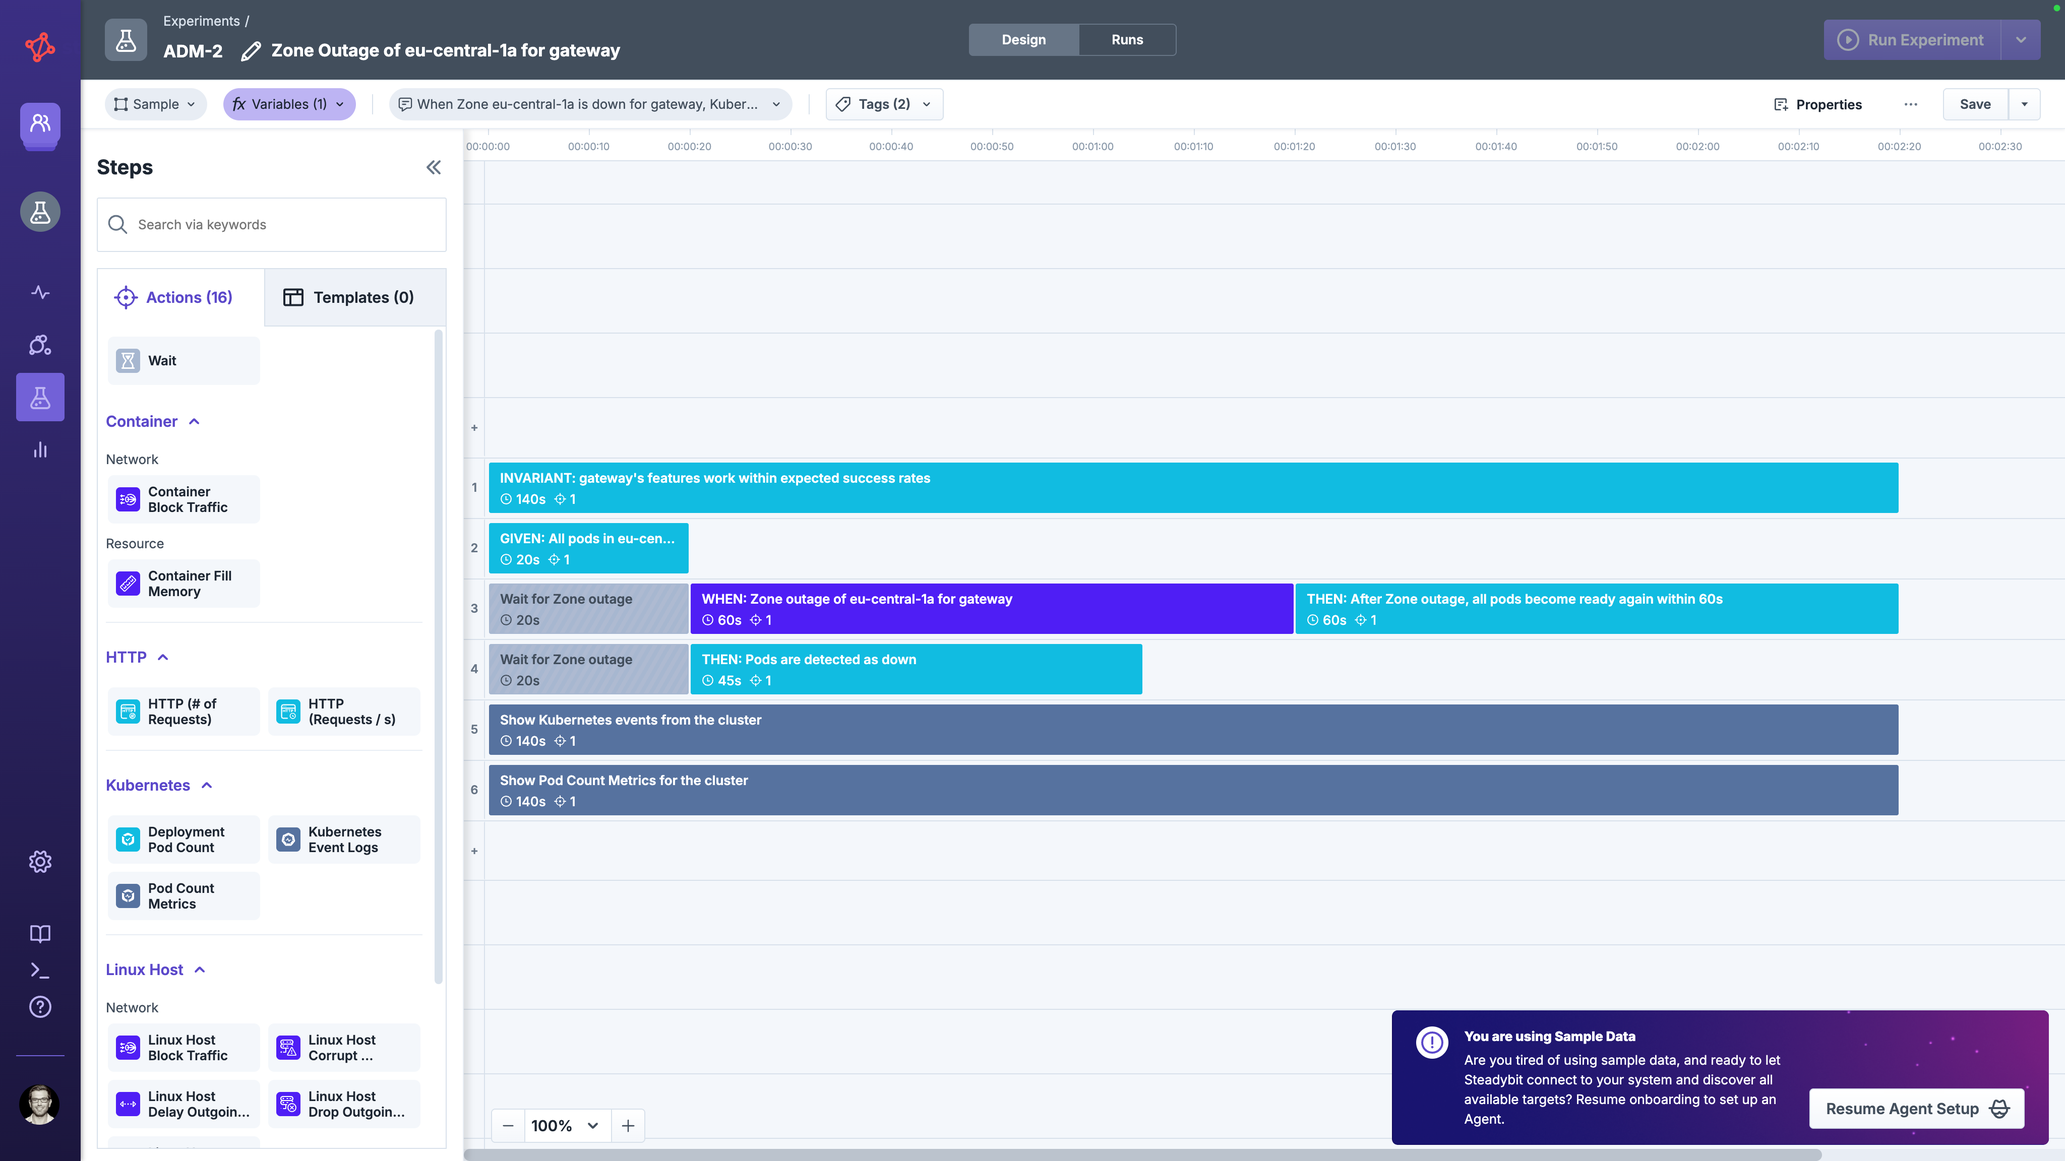
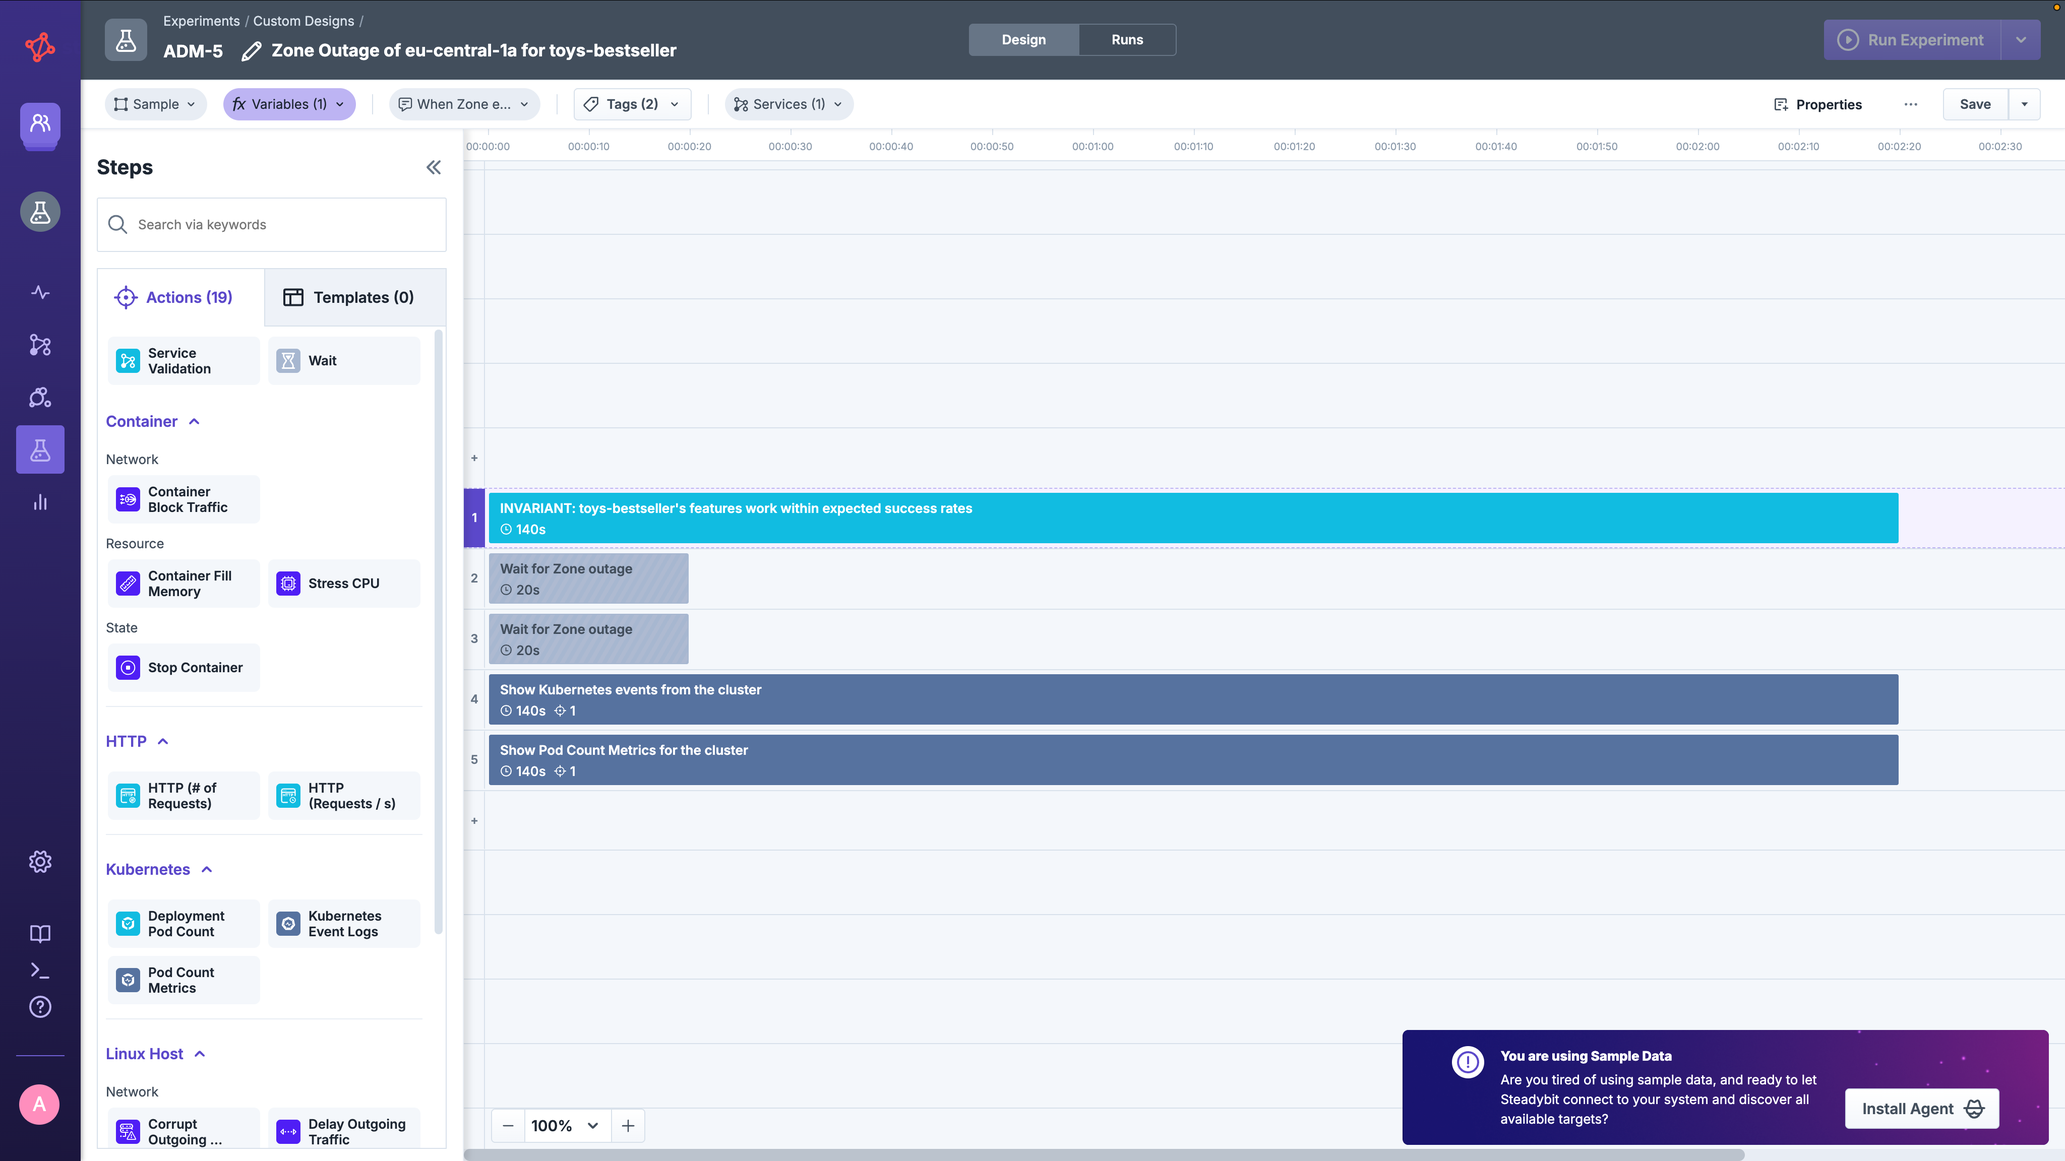
doc: Sample-data ticket 13675

diff --git a/quick-start/sample-data/README.md b/quick-start/sample-data/README.md
@@ -8,10 +8,10 @@ You can use sample data to get a hands-on experience with Steadybit's features.
 Sample data is a pre-configured dataset that simulates a realistic Kubernetes-based microservice application.
 It allows you to:
 
-- Explore the Steadybit UI and understand its capabilities
+- Explore a pre-configured [service](../../use-steadybit/services/README.md) and explore Steadybit's service-centric view of your reliability work and risk calculation
 - Review [experiment designs](../../use-steadybit/experiments/design.md) and see how chaos experiments are structured
 - Analyze [past experiment runs](../../use-steadybit/experiments/run.md) and their results
-- Explore targets and environments in the [landscape](../../use-steadybit/explorer/landscape.md) 
+- Explore targets and environments in the [landscape](../../use-steadybit/explorer/landscape.md)
 - Learn about [reliability advice](../../use-steadybit/explorer/advice.md) without deploying anything
 
 All sample data is automatically assigned to a **Sample** [environment](../../install-and-configure/manage-environments/README.md) in your Steadybit tenant.
@@ -24,9 +24,70 @@ To run real chaos experiments, you'll need to install agents and extensions in y
 
 ## Sample Data Content
 
+### Service: Online Shop
+
+The central piece of the sample data is a pre-configured [service](../../use-steadybit/services/README.md) named **Online Shop**.
+The service allows a single view into your reliability work, bundling your service's targets, defines healthiness of your service, and all experiments validating different reliability scenarios.
+
+The **Online Shop** service is configured with:
+
+- **[Target Scope](../../use-steadybit/services/README.md#target-scope)** — Kubernetes resources of the services `gateway`, `hot-deals`, and `toys-bestseller` in the Sample environment, resolved via the query `k8s.service.name IN ("gateway", "hot-deals", "toys-bestseller")`. See [targets below](#targets)
+- **[Validations](../../use-steadybit/services/README.md#validations)** — a periodic HTTP check that verifies the shop's endpoint returns `2xx` while experiments run, defining what 'healthy' means for the **Online Shop** service
+- **[Provided Experiments](../../use-steadybit/services/README.md#provided-experiments)** — ready-to-run [provided experiments](../../use-steadybit/services/README.md#provided-experiments) automatically generated from the linked [service profile](../../install-and-configure/manage-service-profiles/README.md), covering Redundancy, Dependency, and Scalability categories
+- **[Custom Experiments](../../use-steadybit/services/README.md#custom-experiments)** — linked [custom experiments](../../use-steadybit/services/README.md#custom-experiments) demonstrating advice-based and manually-designed reliability scenarios
+- **[Advice](../../use-steadybit/services/README.md#advice)** — reliability recommendations surfaced for the targets within the service's scope
+
+Based on this information, Steadybit calculates the associated reliability [risk](../../use-steadybit/services/README.md#risk) to help you prioritize and communicate your reliability work.
+
+#### Provided Experiments
+
+Provided experiments are automatically generated from the service profile and scoped to Online Shop's targets and validations:
+
+| Experiment                                  | Category    | Description                                                                                           |
+|---------------------------------------------|-------------|-------------------------------------------------------------------------------------------------------|
+| **Pod Redundancy**                          | Redundancy  | Gradually reduces the redundancy of the service to verify it still provides its services             |
+| **Unavailable Downstream Dependency**       | Dependency  | Blocks a downstream dependency of the service's container to verify graceful degradation             |
+| **Fill Container Memory Progressively**     | Scalability | Gradually fills the memory of the service's containers to verify graceful handling                    |
+| **Stress Container CPU Progressively**      | Scalability | Gradually stresses the CPU of the service's containers to verify graceful handling                    |
+
+#### Custom Experiments
+
+Custom experiments are linked to the service to keep all relevant reliability work in one place.
+Most of these are generated from [reliability advice](../../use-steadybit/explorer/advice.md), which automatically creates validation experiments based on your infrastructure configuration.
+
+| Experiment                                                 | Category   | Related Advice / Template                                                                                                                                                                | Description                                                                                                                                                              |
+|------------------------------------------------------------|------------|------------------------------------------------------------------------------------------------------------------------------------------------------------------------------------------|--------------------------------------------------------------------------------------------------------------------------------------------------------------------------|
+| **Gateway survives unavailability of third-party service** | Dependency | [Third-Party Service Is Unavailable for a Kubernetes Deployment](https://hub.steadybit.com/template/kubernetes-deployment.third-party-service-unavailable?freeText=third-party+service)  | Tests whether the gateway deployment continues to function when a dependent service (`toys-bestseller`) becomes unavailable by blocking container network traffic         |
+| **Zone Outage of eu-central-1a for gateway**               | Redundancy | [Schedule Pods Across Zones](https://hub.steadybit.com/advice/com.steadybit.extension_kubernetes.advice.single-zone)                                                                     | Simulates an availability zone outage to verify that traffic is properly routed to healthy pods in other zones and pods recover within 60 seconds                         |
+| **Zone Outage of eu-central-1a for toys-bestseller**       | Redundancy | [Schedule Pods Across Zones](https://hub.steadybit.com/advice/com.steadybit.extension_kubernetes.advice.single-zone)                                                                     | Same zone outage scenario targeting the `toys-bestseller` service to verify zone redundancy                                                                               |
+| **Memory Overload of toys-bestseller**                     | Scalability | [Limit Memory Resources](https://hub.steadybit.com/advice/com.steadybit.extension_kubernetes.advice.k8s-memory-limit)                                                                    | Fills container memory to 80% capacity to verify the application handles memory pressure gracefully, including proper OOM handling and recovery                           |
+| **Unhealthiness of toys-bestseller is detected**           | Redundancy | [Probes Configured](https://hub.steadybit.com/advice/com.steadybit.extension_kubernetes.advice.k8s-probes)                                                                               | Verifies that Kubernetes detects unhealthy containers via health probes, restarts them, and routes traffic appropriately during recovery                                  |
+
+### Experiment Runs
+
+The sample data includes a history of experiment runs showing:
+
+- **Completed runs**: Experiments that passed all validations, demonstrating reliability (e.g. **Zone Outage of eu-central-1a for toys-bestseller**)
+- **Failed runs**: Experiments that detected issues (e.g., "Check failure"), showing how Steadybit identifies reliability problems (e.g. **Gateway survives unavailability of third-party service**)
+
+This allows you to understand what is going on in your system and analyze turbulent conditions.
+
+### Advice
+
+Sample data includes advice definitions that help identify reliability improvements for your Kubernetes workloads.
+Each advice provides actionable guidance and can generate validation experiments:
+
+| Advice                                                                                                                    | Description                                                                                                 |
+|---------------------------------------------------------------------------------------------------------------------------|-------------------------------------------------------------------------------------------------------------|
+| [**Limit Memory Resources**](https://hub.steadybit.com/advice/com.steadybit.extension_kubernetes.advice.k8s-memory-limit) | Identifies containers without memory limits configured, which could affect other pods on the same node      |
+| [**Probes Configured**](https://hub.steadybit.com/advice/com.steadybit.extension_kubernetes.advice.k8s-probes)            | Checks whether readiness and liveness probes are properly configured to enable Kubernetes health management |
+| [**Schedule Pods Across Zones**](https://hub.steadybit.com/advice/com.steadybit.extension_kubernetes.advice.single-zone)  | Identifies workloads running in a single availability zone that could be affected by zone outages           |
+
+Browse all available advice in the [Steadybit Reliability Hub](https://hub.steadybit.com/advice).
+
 ### Targets
 
-The sample data includes a simulated Kubernetes environment representing an e-commerce "shop" application running on the `shop-sample` cluster in the `shop` namespace.
+Underpinning the Online Shop service, the sample data includes a simulated Kubernetes environment representing an e-commerce "shop" application running on the `shop-sample` cluster in the `shop` namespace.
 
 The targets include:
 
@@ -43,88 +104,33 @@ Each target comes with rich attributes including:
 
 Once you install an agent and the extension, they will [automatically discover targets](../../concepts/discovery/README.md) like these.
 
-### Experiment Designs
-
-The sample data includes five pre-built experiment designs that demonstrate common chaos engineering scenarios.
-Most of these experiments are generated from [reliability advice](../../use-steadybit/explorer/advice.md), which automatically creates validation experiments based on your infrastructure configuration.
-
-#### Experiments from Advice
-
-The following experiments were generated from advice provided by the [Kubernetes extension](https://hub.steadybit.com/extension/com.steadybit.extension_kubernetes):
-Advice-based experiments are suggested automatically and easy to create.
-
-| Experiment                                       | Related Advice                                                                                                        | Description                                                                                                                                                              |
-|--------------------------------------------------|-----------------------------------------------------------------------------------------------------------------------|--------------------------------------------------------------------------------------------------------------------------------------------------------------------------|
-| **Zone Outage for gateway**                      | [Schedule Pods Across Zones](https://hub.steadybit.com/advice/com.steadybit.extension_kubernetes.advice.single-zone)  | Simulates an availability zone outage (`eu-central-1a`) to verify that traffic is properly routed to healthy pods in other zones and that pods recover within 60 seconds |
-| **Zone Outage for toys-bestseller**              | [Schedule Pods Across Zones](https://hub.steadybit.com/advice/com.steadybit.extension_kubernetes.advice.single-zone)  | Same zone outage scenario targeting the `toys-bestseller` service to verify zone redundancy                                                                              |
-| **Memory Overload of toys-bestseller**           | [Limit Memory Resources](https://hub.steadybit.com/advice/com.steadybit.extension_kubernetes.advice.k8s-memory-limit) | Fills container memory to 80% capacity to verify the application handles memory pressure gracefully, including proper OOM handling and recovery                          |
-| **Unhealthiness of toys-bestseller is detected** | [Probes Configured](https://hub.steadybit.com/advice/com.steadybit.extension_kubernetes.advice.k8s-probes)            | Verifies that Kubernetes detects unhealthy containers via health probes, restarts them, and routes traffic appropriately during recovery                                 |
-
-#### Custom Experiments
-
-Sample data includes also custom created experiments to test specific resilience patterns:
-
-| Experiment                                                 | Experiment Template                                                                                                                                                                     | Description                                                                                                                                                               |
-|------------------------------------------------------------|-----------------------------------------------------------------------------------------------------------------------------------------------------------------------------------------|---------------------------------------------------------------------------------------------------------------------------------------------------------------------------|
-| **Gateway survives unavailability of third-party service** | [Third-Party Service Is Unavailable for a Kubernetes Deployment](https://hub.steadybit.com/template/kubernetes-deployment.third-party-service-unavailable?freeText=third-party+service) | Tests whether the gateway deployment continues to function when a dependent service (`toys-bestseller`) becomes unavailable by using a container network block traffic attack |
-
-
-#### Experiment Structure
-
-Each experiment follows the **Given-When-Then** pattern:
-
-- **GIVEN**: Preconditions are verified (e.g., all pods are ready)
-- **WHEN**: The chaos attack is executed (e.g., network block traffic, memory fill)
-- **THEN**: Expected behavior is validated (e.g., pods recover, HTTP requests succeed)
-
-However, this structure is optional and you don't have to apply this to your experiments.
-
-### Experiment Runs
-
-The sample data includes a history of experiment runs showing:
-
-- **Completed runs**: Experiments that passed all validations, demonstrating successful resilience (e.g. **Zone Outage for toys-bestseller**)
-- **Failed runs**: Experiments that detected issues (e.g., "Check failure"), showing how Steadybit identifies reliability problems (e.g. **Gateway survives unavailability of third-party service**)
-
-Each run includes timestamps to correlate data with external systems like observability tools..
-This allows you to understand what is going on in your system and analyze turbulent conditions.
-
-### Advice
-
-Sample data includes advice definitions that help identify reliability improvements for your Kubernetes workloads.
-Each advice provides actionable guidance and can generate validation experiments:
-
-| Advice | Description |
-|--------|-------------|
-| [**Limit Memory Resources**](https://hub.steadybit.com/advice/com.steadybit.extension_kubernetes.advice.k8s-memory-limit) | Identifies containers without memory limits configured, which could affect other pods on the same node|
-| [**Probes Configured**](https://hub.steadybit.com/advice/com.steadybit.extension_kubernetes.advice.k8s-probes) | Checks whether readiness and liveness probes are properly configured to enable Kubernetes health management|
-| [**Schedule Pods Across Zones**](https://hub.steadybit.com/advice/com.steadybit.extension_kubernetes.advice.single-zone) | Identifies workloads running in a single availability zone that could be affected by zone outages|
-
-Browse all available advice in the [Steadybit Reliability Hub](https://hub.steadybit.com/advice).
-
 ## Working with Sample Data
 
 When opening up Steadybit, you're welcomed by the dashboard showing you a summary of the most-important activities in your tenant.
 
 ![Dashboard showing sample data](00-dashboard.png)
 
-### Exploring Targets
+### Reviewing Service and Service's Risk
 
-1. Navigate to **Explorer** > **Targets**
-2. Filter by the **Sample** environment
-3. Browse the simulated Kubernetes resources and their attributes
+You can explore the **Online Shop** service by jumping from the dashboard's service widget to the **Online Shop** service.
+Review its target scope, validations, and properties in the header bar and browse the **Provided Experiments**, **Custom Experiments**, and **Advice** tabs to understand how reliability work is bundled for this application.
 
-![Explorer showing a simulated Kubernetes environment](10-explorer.png)
- 
+![Service Detail](10-service.png)
+
+[Learn more about services](../../use-steadybit/services/README.md).
+
 ### Checking Experiment Designs
 
-1. Navigate to **Experiments** in the Steadybit UI
-2. Filter by the **Sample** environment or look for experiments tagged with `sample`
-3. Open any experiment to explore its design, including:
-    - The hypothesis being tested
-    - The attack steps and their configuration
-    - Target selection using the query UI or query language
-    - Validation checks that determine success or failure
+Check out the 
+* linked provided and custom experiment designs in the service **Online Shop** or
+* navigate to **Experiments** in the Steadybit UI.
+
+Open any experiment to explore its design, including:
+
+- The hypothesis being tested
+- The attack steps and their configuration
+- Target selection using the query UI or query language
+- Validation checks that determine success or failure
 
 ![Overview of sample experiments](20-experiments.png)
 
@@ -135,19 +141,36 @@ When opening up Steadybit, you're welcomed by the dashboard showing you a summar
 1. Open a sample experiment
 2. Click on the **Run** tab
 3. Review past runs, including:
-    - Run status (completed/failed)
-    - Timeline of each step
-    - Logs and metrics captured during the run
+   - Run status (completed/failed)
+   - Timeline of each step
+   - Logs and metrics captured during the run
 
 ![Sample experiment run](30-experiment-run.png)
 
 ### Reviewing Advice
 
-1. Navigate to **Explorer** and activate **Show Advice** in the landscape or go to the **Advice**-tab
-2. Filter by the **Sample** environment
-3. Review the reliability recommendations for sample workloads
+Review advice 
 
-![Sample advice for simulated Kubernetes environment](40-advice.png)
+* linked in the service **Online Shop** or
+* navigate to **Explorer** and activate **Show Advice** in the landscape or
+* go to the **Advice**-tab
+
+* Review the reliability recommendations for sample workloads
+
+![Service showing sample advice for simulated Kubernetes environment](40-advice-service.png)
+
+![Explorer showing sample advice for simulated Kubernetes environment](41-advice-explorer.png)
+
+
+### Exploring Targets
+
+Navigate via
+
+* **Services** > **Explore Services** to the **Explorer** to drill-down your targets or
+* check out the **Explorer**'s **Kubernetes Cluster** view to browse the simulated Kubernetes resources and their attributes
+
+![Explorer showing a simulated Kubernetes environment](10-explorer.png)
+ 
 
 ## Integrating with Your Environment
 
